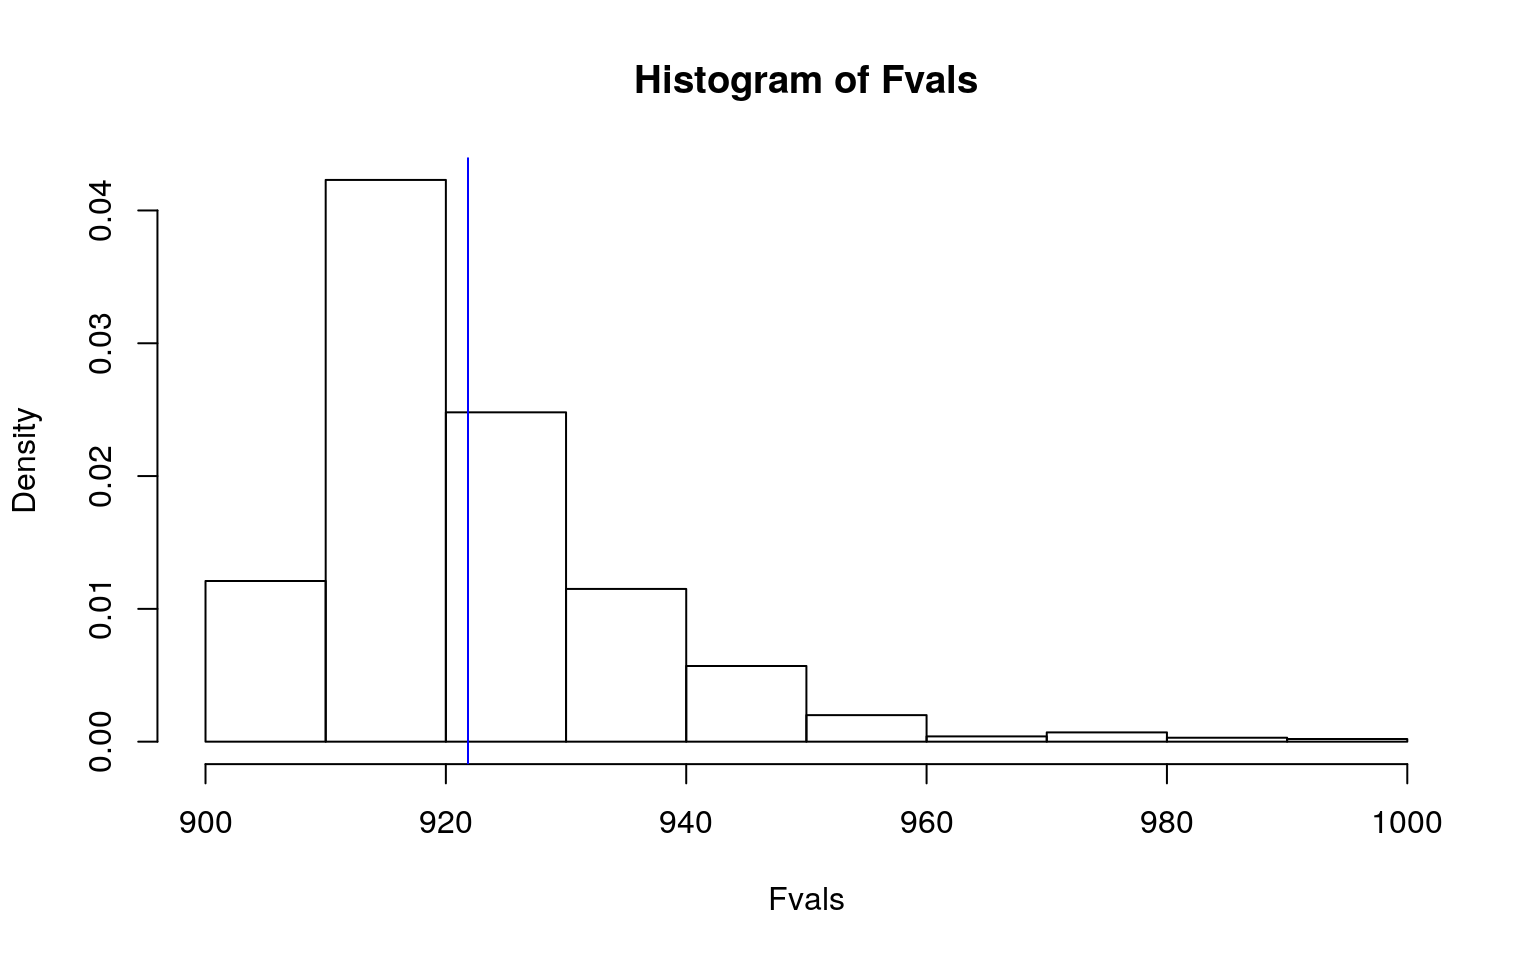
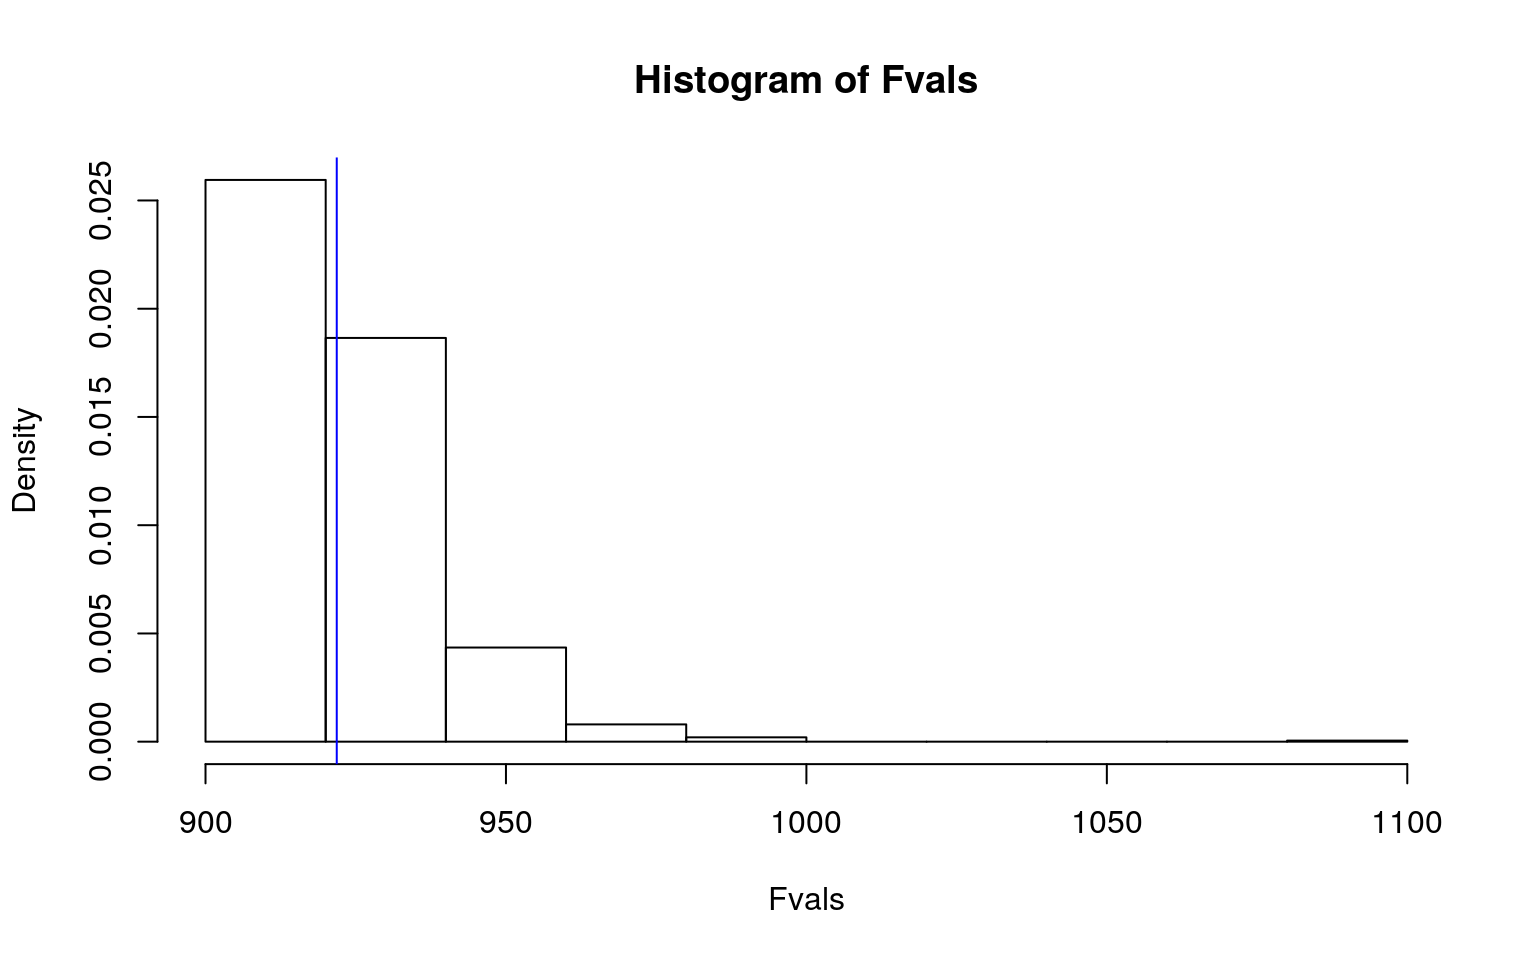
final FINAL

diff --git a/project/project2/index.html b/project/project2/index.html
@@ -57,14 +57,6 @@
             <strong><a href="../../project/project2/">Project 2: Modeling, Testing, and Predicting</a></strong>
           </h3>
         </div>
- 
-<div class="blog-title">
-          <h4>
-         January 1, 0001 
-            &nbsp;&nbsp;
-            
-          </h4>
-        </div>
 
         <div class="panel panel-default">
           <div class="panel-body">
@@ -121,7 +113,7 @@ adonis(dist~treat,data=crohnD)</code></pre>
 ## Terms added sequentially (first to last)
 ## 
 ##            Df SumsOfSqs MeanSqs F.Model      R2 Pr(&gt;F)
-## treat       2      1111  555.49  1.3105 0.02247  0.245
+## treat       2      1111  555.49  1.3105 0.02247  0.259
 ## Residuals 114     48323  423.89         0.97753       
 ## Total     116     49434                 1.00000</code></pre>
 <pre class="r"><code>#calculations for observed F
@@ -135,7 +127,7 @@ SSW = new %&gt;% group_by(treat) %&gt;% select(nrAdvE, BMI, height, weight) %&gt
 ((SST-SSW)/2)/(SSW/114) })
 
 mean(Fvals &gt; obs_F)</code></pre>
-<pre><code>## [1] 0.394</code></pre>
+<pre><code>## [1] 0.422</code></pre>
 <pre class="r"><code>{hist(Fvals, prob = T); abline(v = obs_F, col=&quot;blue&quot;, add = T)}</code></pre>
 <p><img src="../../project/project2_files/figure-html/unnamed-chunk-3-1.png" width="768" style="display: block; margin: auto;" /></p>
 <p>Null hypothesis: The center and spread of the three treatment groups were the same.</p>
@@ -270,8 +262,8 @@ summary(fit)</code></pre>
 <pre class="r"><code>samp_distn %&gt;% t %&gt;% as.data.frame %&gt;% summarize_all(sd)</code></pre>
 <pre><code>## (Intercept) weightc treatd1 treatd2 weightc:treatd1
 weightc:treatd2
-## 1 0.5035319 0.04915491 0.6356345 0.6680544 0.05413886
-0.05591217</code></pre>
+## 1 0.5145142 0.05020148 0.6380476 0.6771105 0.05532781
+0.05687079</code></pre>
 <p>The bootstrapped standard errors calculated above are incredibly similar to the original and robust standard errors calculated earlier. The p values remain to be the same, and thus the bootstrapped standard errors do not make any of the variables significant. # <strong>5. (25 pts)</strong></p>
 <pre class="r"><code>crohnD = crohnD %&gt;% mutate(treatb = ifelse(treat==&quot;placebo&quot;,0,1))
 fit1 = glm(treatb~weightc+nrAdvE, data = crohnD, family = binomial(link = &quot;logit&quot;))

diff --git a/project/project1/index.html b/project/project1/index.html
@@ -57,14 +57,6 @@
             <strong><a href="../../project/project1/">Project 1: Exploratory Data Analysis</a></strong>
           </h3>
         </div>
- 
-<div class="blog-title">
-          <h4>
-         January 1, 0001 
-            &nbsp;&nbsp;
-            
-          </h4>
-        </div>
 
         <div class="panel panel-default">
           <div class="panel-body">
@@ -89,12 +81,12 @@ library(dplyr)</code></pre>
 ## 
 ##     intersect, setdiff, setequal, union</code></pre>
 <pre class="r"><code>library(tidyverse)</code></pre>
-<pre><code>## ── Attaching packages ── tidyverse 1.3.0 ──</code></pre>
+<pre><code>## ── Attaching packages ───────────────────────────────────────────────────── tidyverse 1.3.0 ──</code></pre>
 <pre><code>## ✓ ggplot2 3.3.2     ✓ purrr   0.3.4
 ## ✓ tibble  3.0.3     ✓ stringr 1.4.0
 ## ✓ tidyr   1.1.1     ✓ forcats 0.5.0
 ## ✓ readr   1.3.1</code></pre>
-<pre><code>## ── Conflicts ───── tidyverse_conflicts() ──
+<pre><code>## ── Conflicts ──────────────────────────────────────────────────────── tidyverse_conflicts() ──
 ## x dplyr::filter() masks stats::filter()
 ## x dplyr::lag()    masks stats::lag()</code></pre>
 <pre class="r"><code>library(data.table)</code></pre>
